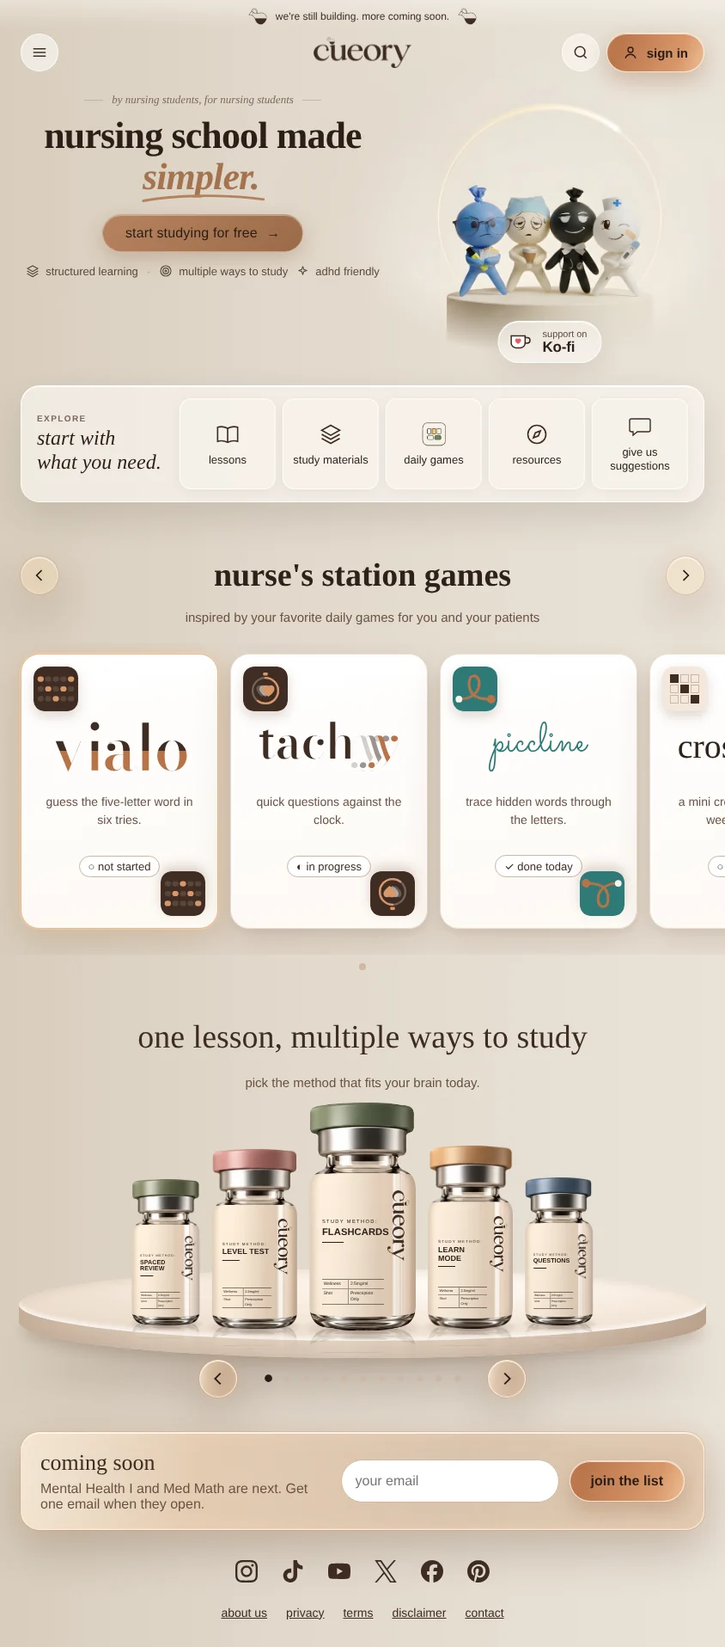
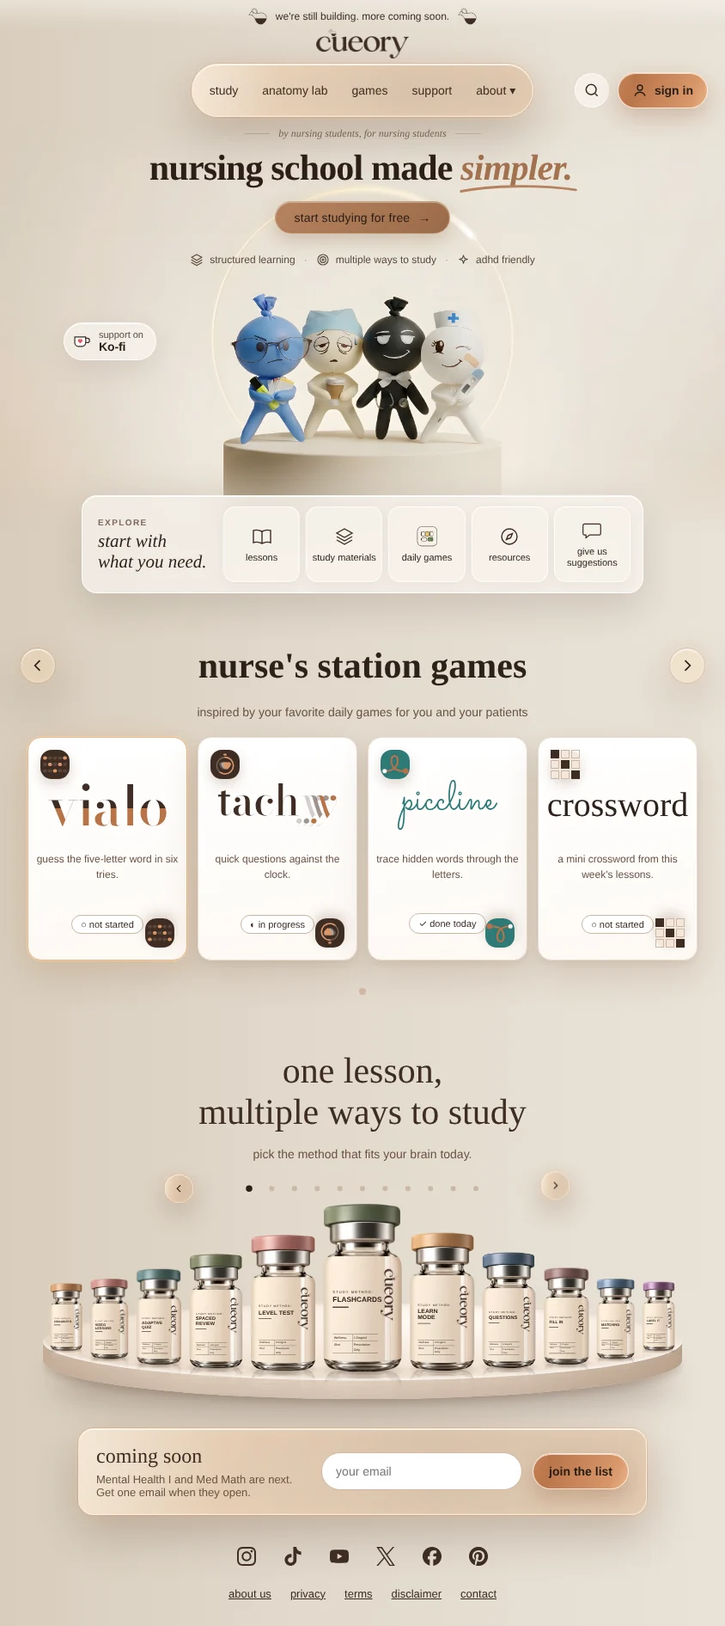
Home v3 hand-off: phone landscape boards now follow the desktop layout
Claude-Session: https://claude.ai/code/session_01V8pHm5xDFd3PCqqXThexqv

diff --git a/docs/design/home-v3/home-landscape-evening.dc.html b/docs/design/home-v3/home-landscape-evening.dc.html
@@ -179,63 +179,62 @@ input::placeholder{color:#9e8a78}
 
 <style>
 div[style*="z-index: 21"]{width:auto!important;height:auto!important}
-/* ---- phone landscape (844 x 390) ---- */
-header{grid-template-columns:1fr auto 1fr!important;padding:4px 24px 0!important;row-gap:0!important}
-header > a[aria-label="cueory home"] img{height:36px!important}
-header > nav[aria-label="Main"]{display:none!important}
-header > div{grid-row:1!important;gap:8px!important}
-header > div > button[aria-label="Search"]{width:44px!important;height:44px!important}
-header > div > a.copper{min-height:44px!important;height:44px;padding:0 18px!important;font-size:15px!important}
-section:not([id]){display:grid!important;grid-template-columns:1fr 360px;grid-template-rows:auto auto auto auto 1fr;column-gap:12px;align-items:start!important;justify-items:center;padding:6px 24px 0!important;max-width:none!important;text-align:center}
-section:not([id]) > div:first-child{grid-column:1;grid-row:1;font-size:13px!important;gap:10px!important;margin:18px 0 10px!important}
-section:not([id]) > div:first-child > span{width:22px!important}
-section:not([id]) > h1{grid-column:1;grid-row:2;font-size:44px!important;line-height:1.08!important;max-width:420px}
-section:not([id]) > a{grid-column:1;grid-row:3;margin-top:20px!important;font-size:16px!important;padding:12px 26px!important}
-section:not([id]) > div:nth-of-type(2){grid-column:1;grid-row:4;margin-top:14px!important;gap:6px 10px!important;font-size:13px!important;max-width:420px}
-section:not([id]) > div:nth-of-type(2) > span:nth-child(4){display:none}
-section:not([id]) > div:nth-of-type(3){grid-column:2;grid-row:1 / 6;height:330px!important;margin-top:0!important;width:360px!important;max-width:none!important;overflow:visible}
-section:not([id]) > div:nth-of-type(3) > img{width:640px!important;height:357px!important;top:-24px!important;-webkit-mask-image:radial-gradient(ellipse 50% 50% at 50% 47%,#000 66%,transparent 100%)!important;mask-image:radial-gradient(ellipse 50% 50% at 50% 47%,#000 66%,transparent 100%)!important}
-.halo-shine{top:164px!important;width:270px!important;height:270px!important;margin:-135px 0 0 -135px!important;-webkit-mask-image:radial-gradient(circle,transparent 125px,#000 129px,#000 131px,transparent 135px)!important;mask-image:radial-gradient(circle,transparent 125px,#000 129px,#000 131px,transparent 135px)!important}
-section:not([id]) > div:nth-of-type(3) > a{left:50%!important;top:auto!important;bottom:-2px;transform:translateX(-50%);padding:8px 16px 8px 12px!important}
-#daily-games{padding:28px 24px 8px!important}
-nav[aria-label="Explore"]{margin:0 auto!important;max-width:none!important;padding:14px 18px!important;gap:16px!important;border-radius:22px!important;flex-wrap:nowrap!important}
-nav[aria-label="Explore"] > div:first-child{flex:0 0 150px!important;padding:0!important}
-nav[aria-label="Explore"] > div:first-child > div:last-child{font-size:24px!important}
-nav[aria-label="Explore"] > div:last-child{flex:1 1 auto!important;grid-template-columns:repeat(5,1fr)!important;gap:8px!important}
-nav[aria-label="Explore"] .tile{min-height:84px;font-size:13px!important;padding:10px 4px!important}
-nav[aria-label="Explore"] .tile svg,nav[aria-label="Explore"] .tile img{width:28px!important;height:28px!important}
-[aria-label="daily games"]{margin-top:36px}
-[aria-label="daily games"] > div:first-child{grid-template-columns:44px 1fr 44px!important;gap:10px!important}
-[aria-label="daily games"] h3{font-size:38px!important;line-height:1.1!important}
-[aria-label="daily games"] p{font-size:15px!important;margin:6px 0 0!important}
-[aria-label="daily games"] .gs-nav{width:44px!important;height:44px!important}
-.gcar{overflow-x:auto!important;scroll-snap-type:x mandatory;scroll-padding:0 24px;padding:12px 0 30px!important;margin:0 -24px;scrollbar-width:none}
-.gcar::-webkit-scrollbar{display:none}
-.gtrack{transform:none!important;gap:14px!important;padding:0 24px!important;width:max-content}
-.gcard{width:230px!important;height:320px!important;scroll-snap-align:start}
-#study-materials{padding:36px 0 12px!important;height:auto!important;width:auto!important;max-width:none!important;overflow-x:clip}
-#study-materials h2{font-size:38px!important;line-height:1.12!important}
-#study-materials h2 br{display:none}
-#study-materials p{font-size:15px!important;margin:0 0 18px!important}
-.vstage{height:340px!important;max-width:none!important}
-.vtrack{width:844px!important;height:290px!important;top:0;bottom:auto!important;transform:translateX(-50%)!important}
-.disc,.disc-edge{width:800px!important;height:84px!important;margin-left:-400px!important}
-.disc-edge::before{top:22px!important;height:22px!important}
-.disc{bottom:20px!important}
-.vial{-webkit-box-reflect:none!important}
-.vtrack > div[style*="flex-wrap"]{position:absolute!important;left:0;right:0;top:292px;margin:0!important;height:44px;align-items:center;flex-wrap:nowrap!important;gap:0}
-.vdot{width:22px!important;height:44px!important}
-.vdot span{width:7px!important;height:7px!important}
-.varrow{width:44px!important;height:44px!important;top:0!important;bottom:auto!important}
-.varrow[aria-label="next study method"]{left:auto!important;right:calc(50% - 190px)!important}
-.varrow[aria-label="previous study method"]{left:calc(50% - 190px)!important;right:auto!important}
-#mailing{margin:24px 24px 0!important;padding:20px 22px!important;border-radius:22px!important;gap:12px!important;max-width:none!important;flex-wrap:nowrap!important}
+/* ---- phone landscape (844 x 390): the desktop layout at ~60% ---- */
+header{padding:0 20px!important;row-gap:6px!important}
+header > a[aria-label="cueory home"] img{height:34px!important}
+header .navbtn{font-size:14px!important;padding:8px 12px!important;min-height:36px}
+header > nav[aria-label="Main"]{padding:4px 8px!important;align-items:center}
+header > nav[aria-label="Main"] > div{display:flex;align-items:center}
+header > div > button[aria-label="Search"]{width:40px!important;height:40px!important}
+header > div > a.copper{min-height:40px!important;padding:0 16px!important;font-size:14px!important;gap:8px!important}
+section:not([id]){padding:12px 24px 0!important;max-width:none!important}
+section:not([id]) > div:first-child{font-size:12px!important;gap:10px!important;margin-bottom:10px!important}
+section:not([id]) > div:first-child > span{width:30px!important}
+section:not([id]) > h1{font-size:42px!important;line-height:1.08!important}
+section:not([id]) > a{margin-top:16px!important;font-size:14px!important;padding:10px 22px!important}
+section:not([id]) > div:nth-of-type(2){margin-top:22px!important;gap:10px!important;font-size:12px!important}
+section:not([id]) > div:nth-of-type(3){height:252px!important;margin-top:28px!important;max-width:none!important;width:576px!important}
+section:not([id]) > div:nth-of-type(3) > img{width:864px!important;height:482px!important;top:-198px!important}
+.halo-shine{top:56px!important;width:362px!important;height:362px!important;margin:-181px 0 0 -181px!important;-webkit-mask-image:radial-gradient(circle,transparent 169px,#000 173px,#000 176px,transparent 181px)!important;mask-image:radial-gradient(circle,transparent 169px,#000 173px,#000 176px,transparent 181px)!important}
+section:not([id]) > div:nth-of-type(3) > a{left:-60px!important;top:37px!important;padding:7px 14px 7px 10px!important;gap:8px!important}
+section:not([id]) > div:nth-of-type(3) > a svg{width:22px;height:18px}
+section:not([id]) > div:nth-of-type(3) > a span span:last-child{font-size:14px!important}
+#daily-games{padding:44px 24px 16px!important}
+nav[aria-label="Explore"]{max-width:620px!important;margin:-58px auto 0!important;padding:12px 14px 12px 18px!important;gap:12px!important;border-radius:18px!important;flex-wrap:nowrap!important}
+nav[aria-label="Explore"] > div:first-child{flex:0 0 130px!important;padding-right:4px!important}
+nav[aria-label="Explore"] > div:first-child > div:first-child{font-size:10px!important}
+nav[aria-label="Explore"] > div:first-child > div:last-child{font-size:21px!important;margin-top:4px!important}
+nav[aria-label="Explore"] > div:last-child{flex:1 1 auto!important;grid-template-columns:repeat(5,1fr)!important;gap:7px!important}
+nav[aria-label="Explore"] .tile{min-height:70px;font-size:11px!important;padding:8px 2px!important;gap:6px!important;border-radius:14px!important}
+nav[aria-label="Explore"] .tile svg,nav[aria-label="Explore"] .tile img{width:24px!important;height:24px!important}
+#daily-games > p{font-size:14px!important;margin:0 0 18px!important}
+[aria-label="daily games"]{margin-top:40px;gap:10px!important}
+[aria-label="daily games"] h3{font-size:42px!important}
+[aria-label="daily games"] p{font-size:14px!important;margin:4px 0 0!important}
+[aria-label="daily games"] .gs-nav{width:40px!important;height:40px!important}
+.gcar{overflow:visible!important;padding:8px 0 30px!important}
+.gcard:nth-child(n+5){display:none!important}
+.gtrack{transform:none!important;gap:12px!important;justify-content:center}
+.gcard{width:186px!important;height:260px!important;padding:12px!important;border-radius:16px!important}
+.gcard .gname img{max-width:140px!important;height:auto!important}
+.gcard .gdesc{font-size:12px!important}
+.gcard .gstatus{font-size:11px!important}
+.gpip{width:34px!important;height:34px!important}
+#study-materials{padding:40px 0 10px!important;height:auto!important;width:auto!important;max-width:none!important;overflow-x:clip}
+#study-materials h2{font-size:42px!important;margin:4px 0 4px!important}
+#study-materials > div:first-of-type{font-size:10px!important}
+#study-materials p{font-size:14px!important;margin:0 0 6px!important}
+.vstage{height:268px!important;max-width:none!important}
+.vtrack{transform:translateX(-50%) scale(.6)!important;transform-origin:50% 100%!important}
+#mailing{max-width:620px!important;margin:24px auto 0!important;padding:18px 20px!important;border-radius:18px!important;gap:12px!important;flex-wrap:nowrap!important}
 #mailing > div{flex:1 1 auto!important}
-#mailing h2{font-size:26px!important}
-#mailing input{flex:0 0 220px!important}
-#mailing button{flex:0 0 auto!important}
+#mailing h2{font-size:24px!important}
+#mailing p{font-size:13px!important}
+#mailing input{flex:0 0 200px!important;min-height:42px!important;font-size:14px!important}
+#mailing button{flex:0 0 auto!important;min-height:42px!important;font-size:14px!important;padding:0 18px!important}
 #mailing ~ div{gap:6px!important;padding:24px 16px 0!important}
-footer{padding:16px 24px 32px!important;gap:10px 22px!important;justify-content:center!important}
+#mailing ~ div .soc,#mailing ~ div a{transform:scale(.85)}
+footer{padding:12px 24px 30px!important;gap:10px 22px!important;justify-content:center!important;font-size:13px!important}
 </style>
 </helmet>
 <div style="font-family: Lato, sans-serif; color: #f4ebe1; background: radial-gradient(ellipse 900px 620px at 50% 560px, rgba(196,124,64,0.16) 0%, rgba(124,72,34,0.06) 45%, rgba(18,13,9,0) 75%), linear-gradient(180deg, #0e0906 0%, #120d09 100%); min-height: 100vh; position: relative; overflow-x: hidden; isolation: isolate">
@@ -245,7 +244,6 @@ footer{padding:16px 24px 32px!important;gap:10px 22px!important;justify-content:
 </div>
 
 <header style="padding: 0 28px; box-sizing: border-box; display: grid; grid-template-columns: 1fr auto 1fr; align-items: center; row-gap: 8px; position: relative; z-index: 20">
-  <button class="phone-menu" aria-label="Menu" style="grid-column: 1; grid-row: 1; justify-self: start; width: 44px; height: 44px; border-radius: 999px; border: 1px solid rgba(226,189,154,.22); background: rgba(34,25,19,.68); display: flex; align-items: center; justify-content: center; cursor: pointer"><svg width="20" height="20" viewBox="0 0 24 24" fill="none" stroke="#f4ebe1" stroke-width="1.8" stroke-linecap="round" aria-hidden="true"><path d="M4 7h16M4 12h16M4 17h16"></path></svg></button>
   <a href="#" aria-label="cueory home" style="grid-column: 2; grid-row: 1; justify-self: center; display: block"><img src="/brand/v1/logo-full-dark-960.png" alt="cueory" style="height: 52px; width: auto; display: block"></a>
   <nav aria-label="Main" class="glass" style="grid-column: 2; grid-row: 2; justify-self: center; display: flex; flex-wrap: wrap; justify-content: center; gap: 4px; padding: 6px 10px; border-radius: 999px">
     <button class="navbtn" onClick="{{openCourses}}">study</button>
@@ -436,7 +434,7 @@ footer{padding:16px 24px 32px!important;gap:10px 22px!important;justify-content:
 
 </div>
 </x-dc>
-<script type="text/x-dc" data-dc-script="" data-props="{&quot;$preview&quot;:{&quot;width&quot;:844,&quot;height&quot;:1915}}">
+<script type="text/x-dc" data-dc-script="" data-props="{&quot;$preview&quot;:{&quot;width&quot;:844,&quot;height&quot;:1891}}">
 class Component extends DCLogic {
   constructor(props) { super(props); this.state = { modal: null, about: false, active: 4, game: 0, card: 0 }; }
   renderVals() {
@@ -468,12 +466,12 @@ class Component extends DCLogic {
     const X = [0]; for (let k = 1; k < S.length; k++) X[k] = X[k - 1] + W[k - 1] / 2 + 8 + W[k] / 2;
     const vials = V.map((v, i) => {
       let d = ((i - a) % n + n) % n; if (d > n / 2) d -= n;
-      const SC = [1, .8, .64], XS = [0]; for (let q = 1; q < SC.length; q++) XS[q] = XS[q - 1] + 62 * SC[q - 1] + 14 + 62 * SC[q]; const k = Math.min(Math.abs(d), 2), sc = SC[k], vw = 124 * sc, x = Math.sign(d) * XS[k], depth = Math.sqrt(Math.max(0, 1 - (x / 380) * (x / 380))), vb = 58 - 26 * depth, vz = 20 - k, hide = Math.abs(d) > 2;
+      const SC = [1, .82, .68, .57, .48, .41], XS = [0]; for (let q = 1; q < SC.length; q++) XS[q] = XS[q - 1] + 76 * SC[q - 1] + 16 + 76 * SC[q]; const k = Math.min(Math.abs(d), SC.length - 1), sc = SC[k], vw = 152 * sc, x = Math.sign(d) * XS[k], depth = Math.sqrt(Math.max(0, 1 - (x / 600) * (x / 600))), vb = 111 - 58 * depth, vz = 20 - k;
       return {
         name: v.name, img: v.img,
         href: d === 0 ? '/learn' : '#',
         label: d === 0 ? v.name + ': open a sample lesson' : 'show ' + v.name,
-        style: 'width: ' + vw.toFixed(1) + 'px; bottom: ' + vb.toFixed(1) + 'px; transform: translateX(calc(-50% + ' + x.toFixed(1) + 'px)); z-index: ' + vz + (hide ? '; opacity: 0; pointer-events: none; visibility: hidden' : ''),
+        style: 'width: ' + vw.toFixed(1) + 'px; bottom: ' + vb.toFixed(1) + 'px; transform: translateX(calc(-50% + ' + x.toFixed(1) + 'px)); z-index: ' + vz,
         pick: (e) => { if (d !== 0) { if (e && e.preventDefault) e.preventDefault(); this.setState({ active: i }); } }
       };
     });

diff --git a/docs/design/home-v3/home-landscape-light.dc.html b/docs/design/home-v3/home-landscape-light.dc.html
@@ -156,63 +156,62 @@ nav[aria-label="Explore"] .tile svg,nav[aria-label="Explore"] .tile img{width:20
 
 <style>
 div[style*="z-index: 21"]{width:auto!important;height:auto!important}
-/* ---- phone landscape (844 x 390) ---- */
-header{grid-template-columns:1fr auto 1fr!important;padding:4px 24px 0!important;row-gap:0!important}
-header > a[aria-label="cueory home"] img{height:36px!important}
-header > nav[aria-label="Main"]{display:none!important}
-header > div{grid-row:1!important;gap:8px!important}
-header > div > button[aria-label="Search"]{width:44px!important;height:44px!important}
-header > div > a.copper{min-height:44px!important;height:44px;padding:0 18px!important;font-size:15px!important}
-section:not([id]){display:grid!important;grid-template-columns:1fr 360px;grid-template-rows:auto auto auto auto 1fr;column-gap:12px;align-items:start!important;justify-items:center;padding:6px 24px 0!important;max-width:none!important;text-align:center}
-section:not([id]) > div:first-child{grid-column:1;grid-row:1;font-size:13px!important;gap:10px!important;margin:18px 0 10px!important}
-section:not([id]) > div:first-child > span{width:22px!important}
-section:not([id]) > h1{grid-column:1;grid-row:2;font-size:44px!important;line-height:1.08!important;max-width:420px}
-section:not([id]) > a{grid-column:1;grid-row:3;margin-top:20px!important;font-size:16px!important;padding:12px 26px!important}
-section:not([id]) > div:nth-of-type(2){grid-column:1;grid-row:4;margin-top:14px!important;gap:6px 10px!important;font-size:13px!important;max-width:420px}
-section:not([id]) > div:nth-of-type(2) > span:nth-child(4){display:none}
-section:not([id]) > div:nth-of-type(3){grid-column:2;grid-row:1 / 6;height:330px!important;margin-top:0!important;width:360px!important;max-width:none!important;overflow:visible}
-section:not([id]) > div:nth-of-type(3) > img{width:640px!important;height:357px!important;top:-24px!important;-webkit-mask-image:radial-gradient(ellipse 50% 50% at 50% 47%,#000 66%,transparent 100%)!important;mask-image:radial-gradient(ellipse 50% 50% at 50% 47%,#000 66%,transparent 100%)!important}
-.halo-shine{top:164px!important;width:270px!important;height:270px!important;margin:-135px 0 0 -135px!important;-webkit-mask-image:radial-gradient(circle,transparent 125px,#000 129px,#000 131px,transparent 135px)!important;mask-image:radial-gradient(circle,transparent 125px,#000 129px,#000 131px,transparent 135px)!important}
-section:not([id]) > div:nth-of-type(3) > a{left:50%!important;top:auto!important;bottom:-2px;transform:translateX(-50%);padding:8px 16px 8px 12px!important}
-#daily-games{padding:28px 24px 8px!important}
-nav[aria-label="Explore"]{margin:0 auto!important;max-width:none!important;padding:14px 18px!important;gap:16px!important;border-radius:22px!important;flex-wrap:nowrap!important}
-nav[aria-label="Explore"] > div:first-child{flex:0 0 150px!important;padding:0!important}
-nav[aria-label="Explore"] > div:first-child > div:last-child{font-size:24px!important}
-nav[aria-label="Explore"] > div:last-child{flex:1 1 auto!important;grid-template-columns:repeat(5,1fr)!important;gap:8px!important}
-nav[aria-label="Explore"] .tile{min-height:84px;font-size:13px!important;padding:10px 4px!important}
-nav[aria-label="Explore"] .tile svg,nav[aria-label="Explore"] .tile img{width:28px!important;height:28px!important}
-[aria-label="daily games"]{margin-top:36px}
-[aria-label="daily games"] > div:first-child{grid-template-columns:44px 1fr 44px!important;gap:10px!important}
-[aria-label="daily games"] h3{font-size:38px!important;line-height:1.1!important}
-[aria-label="daily games"] p{font-size:15px!important;margin:6px 0 0!important}
-[aria-label="daily games"] .gs-nav{width:44px!important;height:44px!important}
-.gcar{overflow-x:auto!important;scroll-snap-type:x mandatory;scroll-padding:0 24px;padding:12px 0 30px!important;margin:0 -24px;scrollbar-width:none}
-.gcar::-webkit-scrollbar{display:none}
-.gtrack{transform:none!important;gap:14px!important;padding:0 24px!important;width:max-content}
-.gcard{width:230px!important;height:320px!important;scroll-snap-align:start}
-#study-materials{padding:36px 0 12px!important;height:auto!important;width:auto!important;max-width:none!important;overflow-x:clip}
-#study-materials h2{font-size:38px!important;line-height:1.12!important}
-#study-materials h2 br{display:none}
-#study-materials p{font-size:15px!important;margin:0 0 18px!important}
-.vstage{height:340px!important;max-width:none!important}
-.vtrack{width:844px!important;height:290px!important;top:0;bottom:auto!important;transform:translateX(-50%)!important}
-.disc,.disc-edge{width:800px!important;height:84px!important;margin-left:-400px!important}
-.disc-edge::before{top:22px!important;height:22px!important}
-.disc{bottom:20px!important}
-.vial{-webkit-box-reflect:none!important}
-.vtrack > div[style*="flex-wrap"]{position:absolute!important;left:0;right:0;top:292px;margin:0!important;height:44px;align-items:center;flex-wrap:nowrap!important;gap:0}
-.vdot{width:22px!important;height:44px!important}
-.vdot span{width:7px!important;height:7px!important}
-.varrow{width:44px!important;height:44px!important;top:0!important;bottom:auto!important}
-.varrow[aria-label="next study method"]{left:auto!important;right:calc(50% - 190px)!important}
-.varrow[aria-label="previous study method"]{left:calc(50% - 190px)!important;right:auto!important}
-#mailing{margin:24px 24px 0!important;padding:20px 22px!important;border-radius:22px!important;gap:12px!important;max-width:none!important;flex-wrap:nowrap!important}
+/* ---- phone landscape (844 x 390): the desktop layout at ~60% ---- */
+header{padding:0 20px!important;row-gap:6px!important}
+header > a[aria-label="cueory home"] img{height:34px!important}
+header .navbtn{font-size:14px!important;padding:8px 12px!important;min-height:36px}
+header > nav[aria-label="Main"]{padding:4px 8px!important;align-items:center}
+header > nav[aria-label="Main"] > div{display:flex;align-items:center}
+header > div > button[aria-label="Search"]{width:40px!important;height:40px!important}
+header > div > a.copper{min-height:40px!important;padding:0 16px!important;font-size:14px!important;gap:8px!important}
+section:not([id]){padding:12px 24px 0!important;max-width:none!important}
+section:not([id]) > div:first-child{font-size:12px!important;gap:10px!important;margin-bottom:10px!important}
+section:not([id]) > div:first-child > span{width:30px!important}
+section:not([id]) > h1{font-size:42px!important;line-height:1.08!important}
+section:not([id]) > a{margin-top:16px!important;font-size:14px!important;padding:10px 22px!important}
+section:not([id]) > div:nth-of-type(2){margin-top:22px!important;gap:10px!important;font-size:12px!important}
+section:not([id]) > div:nth-of-type(3){height:252px!important;margin-top:28px!important;max-width:none!important;width:576px!important}
+section:not([id]) > div:nth-of-type(3) > img{width:864px!important;height:482px!important;top:-198px!important}
+.halo-shine{top:56px!important;width:362px!important;height:362px!important;margin:-181px 0 0 -181px!important;-webkit-mask-image:radial-gradient(circle,transparent 169px,#000 173px,#000 176px,transparent 181px)!important;mask-image:radial-gradient(circle,transparent 169px,#000 173px,#000 176px,transparent 181px)!important}
+section:not([id]) > div:nth-of-type(3) > a{left:-60px!important;top:37px!important;padding:7px 14px 7px 10px!important;gap:8px!important}
+section:not([id]) > div:nth-of-type(3) > a svg{width:22px;height:18px}
+section:not([id]) > div:nth-of-type(3) > a span span:last-child{font-size:14px!important}
+#daily-games{padding:44px 24px 16px!important}
+nav[aria-label="Explore"]{max-width:620px!important;margin:-58px auto 0!important;padding:12px 14px 12px 18px!important;gap:12px!important;border-radius:18px!important;flex-wrap:nowrap!important}
+nav[aria-label="Explore"] > div:first-child{flex:0 0 130px!important;padding-right:4px!important}
+nav[aria-label="Explore"] > div:first-child > div:first-child{font-size:10px!important}
+nav[aria-label="Explore"] > div:first-child > div:last-child{font-size:21px!important;margin-top:4px!important}
+nav[aria-label="Explore"] > div:last-child{flex:1 1 auto!important;grid-template-columns:repeat(5,1fr)!important;gap:7px!important}
+nav[aria-label="Explore"] .tile{min-height:70px;font-size:11px!important;padding:8px 2px!important;gap:6px!important;border-radius:14px!important}
+nav[aria-label="Explore"] .tile svg,nav[aria-label="Explore"] .tile img{width:24px!important;height:24px!important}
+#daily-games > p{font-size:14px!important;margin:0 0 18px!important}
+[aria-label="daily games"]{margin-top:40px;gap:10px!important}
+[aria-label="daily games"] h3{font-size:42px!important}
+[aria-label="daily games"] p{font-size:14px!important;margin:4px 0 0!important}
+[aria-label="daily games"] .gs-nav{width:40px!important;height:40px!important}
+.gcar{overflow:visible!important;padding:8px 0 30px!important}
+.gcard:nth-child(n+5){display:none!important}
+.gtrack{transform:none!important;gap:12px!important;justify-content:center}
+.gcard{width:186px!important;height:260px!important;padding:12px!important;border-radius:16px!important}
+.gcard .gname img{max-width:140px!important;height:auto!important}
+.gcard .gdesc{font-size:12px!important}
+.gcard .gstatus{font-size:11px!important}
+.gpip{width:34px!important;height:34px!important}
+#study-materials{padding:40px 0 10px!important;height:auto!important;width:auto!important;max-width:none!important;overflow-x:clip}
+#study-materials h2{font-size:42px!important;margin:4px 0 4px!important}
+#study-materials > div:first-of-type{font-size:10px!important}
+#study-materials p{font-size:14px!important;margin:0 0 6px!important}
+.vstage{height:268px!important;max-width:none!important}
+.vtrack{transform:translateX(-50%) scale(.6)!important;transform-origin:50% 100%!important}
+#mailing{max-width:620px!important;margin:24px auto 0!important;padding:18px 20px!important;border-radius:18px!important;gap:12px!important;flex-wrap:nowrap!important}
 #mailing > div{flex:1 1 auto!important}
-#mailing h2{font-size:26px!important}
-#mailing input{flex:0 0 220px!important}
-#mailing button{flex:0 0 auto!important}
+#mailing h2{font-size:24px!important}
+#mailing p{font-size:13px!important}
+#mailing input{flex:0 0 200px!important;min-height:42px!important;font-size:14px!important}
+#mailing button{flex:0 0 auto!important;min-height:42px!important;font-size:14px!important;padding:0 18px!important}
 #mailing ~ div{gap:6px!important;padding:24px 16px 0!important}
-footer{padding:16px 24px 32px!important;gap:10px 22px!important;justify-content:center!important}
+#mailing ~ div .soc,#mailing ~ div a{transform:scale(.85)}
+footer{padding:12px 24px 30px!important;gap:10px 22px!important;justify-content:center!important;font-size:13px!important}
 </style>
 </helmet>
 <div style="font-family: Lato, sans-serif; color: #3E2C23; background: linear-gradient(90deg, #d8cebd 0%, #e1d8cb 38%, #e6dfd3 72%, #e9e2d7 100%); min-height: 100vh; position: relative; overflow-x: hidden; isolation: isolate">
@@ -222,7 +221,6 @@ footer{padding:16px 24px 32px!important;gap:10px 22px!important;justify-content:
 </div>
 
 <header style="padding: 0 28px; box-sizing: border-box; display: grid; grid-template-columns: 1fr auto 1fr; align-items: center; row-gap: 8px; position: relative; z-index: 20">
-  <button class="phone-menu" aria-label="Menu" style="grid-column: 1; grid-row: 1; justify-self: start; width: 44px; height: 44px; border-radius: 999px; border: 1px solid rgba(255,255,255,.8); background: rgba(255,255,255,.55); display: flex; align-items: center; justify-content: center; cursor: pointer"><svg width="20" height="20" viewBox="0 0 24 24" fill="none" stroke="#3E2C23" stroke-width="1.8" stroke-linecap="round" aria-hidden="true"><path d="M4 7h16M4 12h16M4 17h16"></path></svg></button>
   <a href="#" aria-label="cueory home" style="grid-column: 2; grid-row: 1; justify-self: center; display: block"><img src="/brand/v1/logo-full-light-960.png" alt="cueory" style="height: 52px; width: auto; display: block"></a>
   <nav aria-label="Main" class="glass" style="grid-column: 2; grid-row: 2; justify-self: center; display: flex; flex-wrap: wrap; justify-content: center; gap: 4px; padding: 6px 10px; border-radius: 999px">
     <button class="navbtn" onClick="{{openCourses}}">study</button>
@@ -413,7 +411,7 @@ footer{padding:16px 24px 32px!important;gap:10px 22px!important;justify-content:
 
 </div>
 </x-dc>
-<script type="text/x-dc" data-dc-script="" data-props="{&quot;$preview&quot;:{&quot;width&quot;:844,&quot;height&quot;:1915}}">
+<script type="text/x-dc" data-dc-script="" data-props="{&quot;$preview&quot;:{&quot;width&quot;:844,&quot;height&quot;:1891}}">
 class Component extends DCLogic {
   constructor(props) { super(props); this.state = { modal: null, about: false, active: 4, game: 0, card: 0 }; }
   renderVals() {
@@ -445,12 +443,12 @@ class Component extends DCLogic {
     const X = [0]; for (let k = 1; k < S.length; k++) X[k] = X[k - 1] + W[k - 1] / 2 + 8 + W[k] / 2;
     const vials = V.map((v, i) => {
       let d = ((i - a) % n + n) % n; if (d > n / 2) d -= n;
-      const SC = [1, .8, .64], XS = [0]; for (let q = 1; q < SC.length; q++) XS[q] = XS[q - 1] + 62 * SC[q - 1] + 14 + 62 * SC[q]; const k = Math.min(Math.abs(d), 2), sc = SC[k], vw = 124 * sc, x = Math.sign(d) * XS[k], depth = Math.sqrt(Math.max(0, 1 - (x / 380) * (x / 380))), vb = 58 - 26 * depth, vz = 20 - k, hide = Math.abs(d) > 2;
+      const SC = [1, .82, .68, .57, .48, .41], XS = [0]; for (let q = 1; q < SC.length; q++) XS[q] = XS[q - 1] + 76 * SC[q - 1] + 16 + 76 * SC[q]; const k = Math.min(Math.abs(d), SC.length - 1), sc = SC[k], vw = 152 * sc, x = Math.sign(d) * XS[k], depth = Math.sqrt(Math.max(0, 1 - (x / 600) * (x / 600))), vb = 111 - 58 * depth, vz = 20 - k;
       return {
         name: v.name, img: v.img,
         href: d === 0 ? '/learn' : '#',
         label: d === 0 ? v.name + ': open a sample lesson' : 'show ' + v.name,
-        style: 'width: ' + vw.toFixed(1) + 'px; bottom: ' + vb.toFixed(1) + 'px; transform: translateX(calc(-50% + ' + x.toFixed(1) + 'px)); z-index: ' + vz + (hide ? '; opacity: 0; pointer-events: none; visibility: hidden' : ''),
+        style: 'width: ' + vw.toFixed(1) + 'px; bottom: ' + vb.toFixed(1) + 'px; transform: translateX(calc(-50% + ' + x.toFixed(1) + 'px)); z-index: ' + vz,
         pick: (e) => { if (d !== 0) { if (e && e.preventDefault) e.preventDefault(); this.setState({ active: i }); } }
       };
     });

diff --git a/docs/design/home-v3/README.md b/docs/design/home-v3/README.md
@@ -10,7 +10,7 @@ built"). These files are the hand-off for building it. The canvas stays the sour
 | `home-light-1440.webp`, `home-evening-1440.webp` | Full-page pictures of the approved Light and Evening boards at 1440 px wide. Build to match these. |
 | `home-light.dc.html`, `home-evening.dc.html` | The board sources. Read them for exact sizes, spacing, gradients, the halo animation and the vial layout script. They are design files, not page code: rebuild with our components, tokens and layout. |
 | `home-phone-light-390.webp`, `home-phone-evening-390.webp`, `home-phone-*.dc.html` | Phone portrait boards at 390 wide (the logo is centred on the screen, the bottom two explore tiles are centred, and the vial dots sit in one row under the platter with an arrow at each end). The header gets a menu button, with search and sign in as icons; the hero puts the button and points above the stage; the explore dock uses 3 + 2 tiles; game cards swipe; the vial platter shows the front vial plus one each side (D-192), with the arrows under the platter. |
-| `home-landscape-light-844.webp`, `home-landscape-evening-844.webp`, `home-landscape-*.dc.html` | Phone landscape boards (844 × 390). The header is the same as on portrait phones but with a full "sign in" button. The hero has the text on the left and the stage on the right. The explore dock has all five tiles in one row. The game cards swipe. The platter shows the front vial plus two each side, with dots and arrows under it. The email form sits on one row. |
+| `home-landscape-light-844.webp`, `home-landscape-evening-844.webp`, `home-landscape-*.dc.html` | Phone landscape boards (844 × 390). This is the desktop layout at about 60%: the logo centred with the menu bar under it, the hero stacked and centred over the stage, the explore dock overlapping the stage, four game cards, all 11 vials on the platter, and the email form on one row. |
 | `/public/design/home-v3/stage-light.webp`, `stage-evening.webp` | Hero background photo (glove characters on the round pedestal inside the glowing ring), 2880 × 1607. |
 | `/public/design/home-v3/silk-band.svg`, `pip-vialo.svg`, `pip-piccline.svg`, `icon-games.webp` | Small pieces the boards use. |
 | `/public/vials/v2/vial-*.webp` | Rebuilt study-method vials, 912 px wide (clean outlines, curved label edges). They replace `/public/vials/*.webp` once the new carousel ships. The method name, table and logo stay live text and official logo artwork laid over the blank label, as today. |
